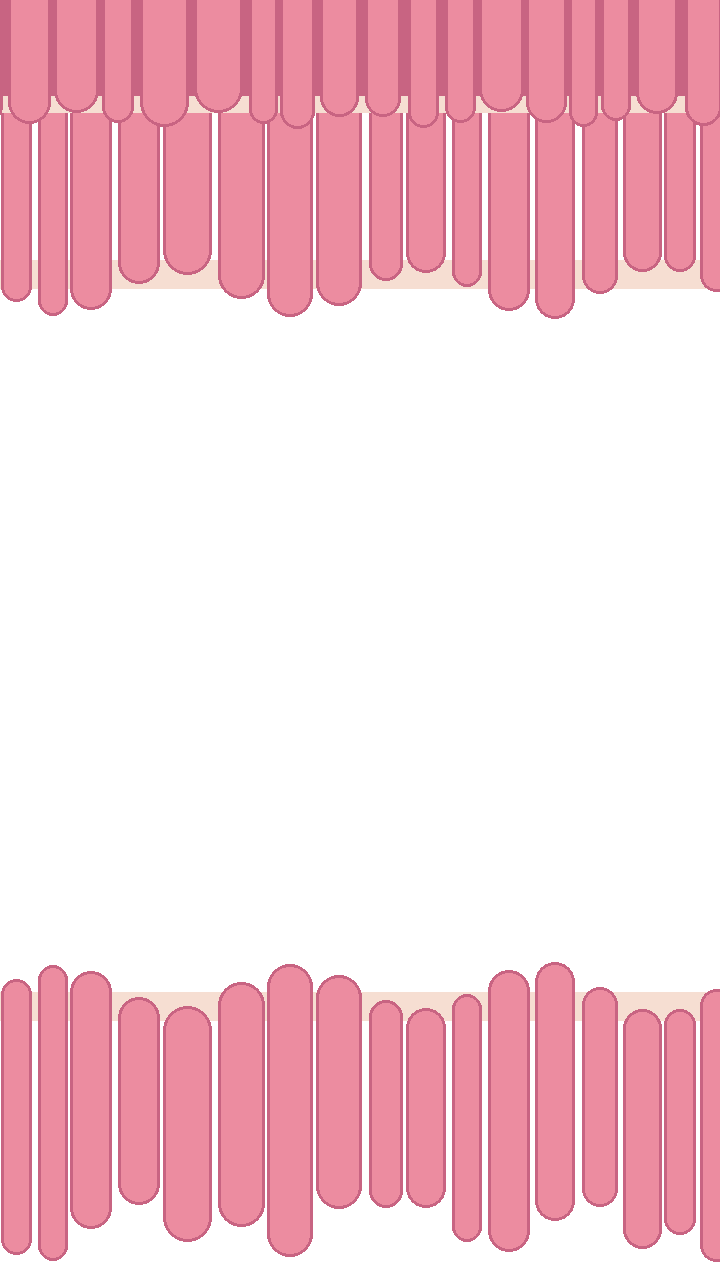
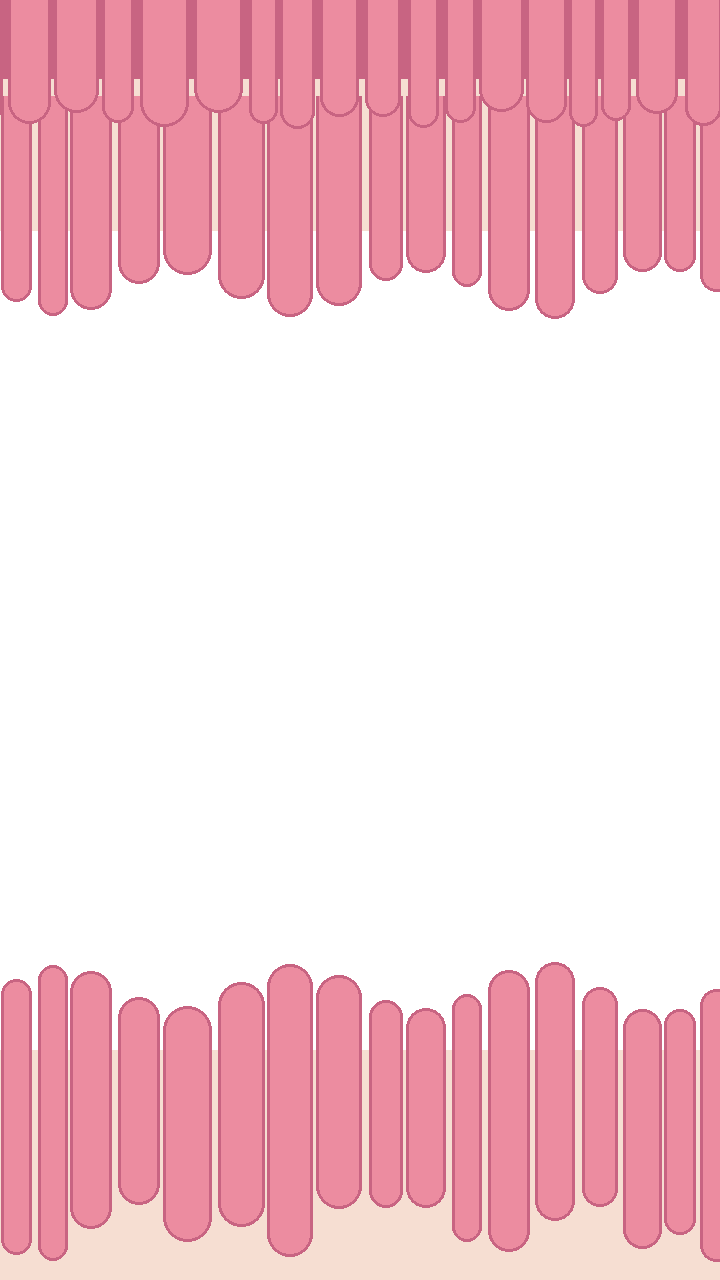
feat(art): cream backdrop behind the villi; every tip extends past its bar
The fringes' 28 px cream band is now a cream mucosa backdrop from each screen
edge to BAR_FRAC (85 %) of the shortest fringe tip's reach (top 0–230, bottom
1050–1280), drawn first so the strips and the fringes sit over it; the level
colour shows from the backdrop's edge to the lumen, and no tip lines up with
the bar. The strips' cream lines follow the same rule (the ceiling strip's at
79–95 under tips at 112–128; the ground's mirrored, its top 33 px transparent
over the backdrop). VERSION 0.5.12 so the browser refetches the art.

diff --git a/src/logic.js b/src/logic.js
@@ -4,7 +4,7 @@
 
 import { isLocale, DEFAULT_LOCALE } from './i18n.js';
 
-export const VERSION = '0.5.11'; // bumped when art under an existing name changes (Boot's ?v= cache-bust)
+export const VERSION = '0.5.12'; // bumped when art under an existing name changes (Boot's ?v= cache-bust)
 
 /** Player-facing stamp on the About overlay: the time of the last push (written by `npm run push`). */
 export const LAST_UPDATED = '6 Nov 2026, 16:07';

diff --git a/tools/make_placeholders.py b/tools/make_placeholders.py
@@ -96,25 +96,29 @@ def villi_band(d, x0, x1, y_base, height, up, rng, min_frac=0.55, wave=None, til
 FRONT_WAVE = (8, 5, math.pi / 2)  # shallow undulation of the strips' finger tips (±8 px, 5 waves per tile)
 BACK_WAVE = (24, 3, 0.0)  # deeper undulation of the fringes' tips (±24 px, 3 waves per tile)
 TIP_ZONE = 16  # px of the strips' lumen-side edge left for the undulating tips (2 × the front amplitude)
+BAR_FRAC = 0.85  # the cream bars end at this share of the shortest tip's reach from the screen edge, so every tip extends past them
 
 
 def ceiling_strip(d, w, strip_h=128, cream_h=16):
-    """The ground strip's vertical mirror, baked into the overlay's top edge: a dark band
-    (strip_h − TIP_ZONE tall), a cream line along its lower edge, and fingers growing up from
-    it whose tips undulate shallowly in the TIP_ZONE below the band (same seed as the ground
-    so the two rows read as one gut wall). Background only: pipes and the poop draw over it,
-    so the ceiling kill line and the gap margin stay as they are."""
-    band = strip_h - TIP_ZONE
-    d.rectangle((0, 0, w, band), fill=VILLI_DARK)
-    d.rectangle((0, band - cream_h, w, band), fill=CREAM)
-    # Tips in [band, strip_h]; far ends run past the top edge (≥ 144 px from the base): no rounded tops on screen.
-    villi_band(d, -40, w + 40, band - 20 + TIP_ZONE / 2, 240, up=True, rng=random.Random(11), min_frac=0.6, wave=FRONT_WAVE, tile_w=w)
+    """The ground strip's vertical mirror, baked into the overlay's top edge: a dark band, a
+    cream line along its lower edge ending at BAR_FRAC of the shortest tip (so every tip
+    extends past it), and fingers growing up from the TIP_ZONE whose tips undulate shallowly
+    (same seed as the ground so the two rows read as one gut wall). Background only: pipes
+    and the poop draw over it, so the ceiling kill line and the gap margin stay as they are."""
+    tips = strip_h - TIP_ZONE  # the shortest front tip's reach from the top edge
+    bar = round(BAR_FRAC * tips)
+    d.rectangle((0, 0, w, bar - cream_h), fill=VILLI_DARK)
+    d.rectangle((0, bar - cream_h, w, bar), fill=CREAM)
+    # Tips in [tips, strip_h]; far ends run past the top edge (≥ 144 px from the base): no rounded tops on screen.
+    villi_band(d, -40, w + 40, tips - 20 + TIP_ZONE / 2, 240, up=True, rng=random.Random(11), min_frac=0.6, wave=FRONT_WAVE, tile_w=w)
 
 
 def villi(path, w=720, h=1280):
-    """Transparent overlay: cream bands + villi fringes, plus the ceiling strip (the
-    ground's mirror) along the top edge. The level colour shows through everywhere
-    else (the game draws a solid rectangle under it)."""
+    """Transparent overlay: a cream mucosa backdrop from each screen edge to BAR_FRAC of the
+    shortest fringe tip (behind everything: the strips and the fringes draw over it), the
+    villi fringes, and the ceiling strip (the ground's mirror) along the top edge. The level
+    colour shows through from the backdrop's edge to the lumen (the game draws a solid
+    rectangle under the overlay)."""
     img = Image.new("RGBA", (w, h), (0, 0, 0, 0))
     d = ImageDraw.Draw(img)
     # Fringes ~260px (~20% each end) so the open lumen stays majority clear
@@ -122,8 +126,12 @@ def villi(path, w=720, h=1280):
     cream_h = 28
     top_base = fringe + cream_h // 2
     bot_base = h - fringe - cream_h // 2
-    d.rectangle((0, top_base - cream_h // 2, w, top_base + cream_h // 2), fill=CREAM)
-    d.rectangle((0, bot_base - cream_h // 2, w, bot_base + cream_h // 2), fill=CREAM)
+    # The backdrop ends short of the shortest tip (base + 20 − amplitude), so no tip lines up with its edge.
+    amp = BACK_WAVE[0]
+    top_bar = round(BAR_FRAC * (top_base + 20 - amp))
+    bot_bar = h - round(BAR_FRAC * (h - (bot_base - 20 + amp)))
+    d.rectangle((0, 0, w, top_bar), fill=CREAM)
+    d.rectangle((0, bot_bar, w, h), fill=CREAM)
     # villi fringes (drawn wider than the image so the horizontal tile edge matches); every finger
     # is ≥ 195 px so its rounded far end sits behind the ceiling strip / the ground strip, and the
     # tips undulate ±24 px around the cream band (BACK_WAVE).
@@ -135,12 +143,15 @@ def villi(path, w=720, h=1280):
 
 
 def ground(path, w=720, h=128):
-    """The floor strip: transparent TIP_ZONE at the top for the undulating finger tips, then the
-    cream line and the dark band; fingers run past the bottom edge (no rounded bottoms on screen)."""
+    """The floor strip, the ceiling strip's mirror: transparent at the top (the overlay's cream
+    backdrop shows through) down to the cream line, which ends BAR_FRAC of the shortest tip
+    from the bottom edge so every tip extends past it; then the dark band. The fingers' tips
+    undulate in the top TIP_ZONE; their far ends run past the bottom edge."""
     img = Image.new("RGBA", (w, h), (0, 0, 0, 0))
     d = ImageDraw.Draw(img)
-    d.rectangle((0, TIP_ZONE, w, h), fill=VILLI_DARK)
-    d.rectangle((0, TIP_ZONE, w, TIP_ZONE + 16), fill=CREAM)
+    bar = round(BAR_FRAC * (h - TIP_ZONE))  # from the bottom edge
+    d.rectangle((0, h - bar, w, h - bar + 16), fill=CREAM)
+    d.rectangle((0, h - bar + 16, w, h), fill=VILLI_DARK)
     villi_band(d, -40, w + 40, TIP_ZONE + 20 - TIP_ZONE / 2, 240, up=False, rng=random.Random(11), min_frac=0.6, wave=FRONT_WAVE, tile_w=w)
     img.save(path)
 

diff --git a/assets/README.md b/assets/README.md
@@ -26,7 +26,7 @@ The player and items are Michael's drawings. Put a new source PNG in `assets/src
 | `mystery-icon.png` | 384x384 | Mystery box icon (game-over summary and How to play) | Static three-quarter view; never spawned, so no hitbox. Same crop rules as the items. Source: `assets/src/MysteryBox_Icon.png`. |
 | `pipe.png` | 128x1280 | One intestinal-fold pipe | Cap at the **top**; the game flips it vertically for the bottom pipe. Height must be **at least the playfield height** (1280) so a flipped top pipe always reaches the ceiling when the gap sits low. |
 | `villi.png` | 720x1280 | Villi overlay over the level colour | Exact playfield size, **transparent** except the cream bands and villi fringes top and bottom and the ceiling strip (top 128 px: dark band, cream line, a front row of fingers, mirroring `ground.png`; background only, pipes and the poop draw over it). Scrolls slowly (parallax 0.25); must tile **horizontally** (left edge continues into right edge). See "Background layers" below. |
-| `ground.png` | 720x128 | Scrolling floor strip | Must tile horizontally. Drawn at the bottom of the screen on top of every background layer. The top 16 px are transparent except the fingers' undulating tips (`TIP_ZONE`); the cream line and the dark band start below them; the fingers run past the bottom edge. |
+| `ground.png` | 720x128 | Scrolling floor strip | Must tile horizontally. Drawn at the bottom of the screen on top of every background layer. Transparent from the top down to its cream line (the overlay's cream backdrop shows through; the fingers' undulating tips live in the top `TIP_ZONE`); the cream line ends `BAR_FRAC` of the shortest tip from the bottom edge so every tip extends past it; then the dark band; the fingers run past the bottom edge. |
 | `icon-192.png` | 192x192 | Home-screen icon (Android / manifest) and the tab favicon | From `assets/src/FlappyPoopAppArt.png` on its own tan: the drawing is scaled to the central 80 % (`ICON_SAFE_FRAC`) so a circular or squircle mask never clips the fart cloud. Referenced by `manifest.webmanifest` (`purpose: any maskable`) and `index.html`. |
 | `icon-512.png` | 512x512 | Home-screen icon (large) | Same cut as `icon-192.png`. |
 | `apple-touch-icon.png` | 180x180 | iPhone home-screen icon | The same art full bleed (iOS only rounds the corners, no mask). Linked from `index.html`. |
@@ -46,7 +46,7 @@ Audio files live in `assets/sfx/`. Every file there must be named in `CREDITS.md
 
 The background is a **solid colour per level** (`LEVEL_COLORS` in `src/config.js`, cycling, softened by `levels.whiteBlend`, crossfaded between levels at the break) with one or more **transparent PNG overlay layers** on top. Each layer is a `tileSprite` listed in `BACKGROUND.layers` (`key`, `parallax`) and scrolls at its own fraction of the pipe speed (villi 0.25). Pipes, items, the poop and the ground draw above all layers; the ground strip (bottom 128 px) hides that part of every layer.
 
-- `villi.png`: 720×1280, PNG with alpha, exactly the portrait playfield (it is scaled to the screen height, never tiled vertically). On a wider desktop field the same 720 px copy repeats sideways (tile scale `FIELD.minWidth / width`), as does `ground.png`, so a seam at the wrap would show there first. Transparent wherever the level colour should show; opaque only where the villi / mucosa are and in the ceiling strip along the top edge (the ground's mirror, so both ends show a back fringe and a front row; it is background, so the ceiling kill line and the gap margin are unchanged). Every finger's rounded far end is off the image edge (the strips' front rows) or behind a strip (the fringes), so the walls read as villi running off-screen, not teeth; `villi_band(min_frac)` enforces the minimum length. The lumen-side tips undulate along x on a sine with a whole number of periods per 720 px tile (`BACK_WAVE` ±24 px on the fringes, `FRONT_WAVE` ±8 px on the strips, inside their 16 px `TIP_ZONE`), plus a little per-finger jitter. Must tile horizontally: the right edge continues into the left (the placeholder draws 40 px past each side and wraps). A 2× version (1440×2560) is fine; keep each side ≤ 4096 px (phone WebGL limit); the scene scales by `GAME_WIDTH / frame.width`. Keep the fringes clear of the middle ~50 % of the height where the gaps sit.
+- `villi.png`: 720×1280, PNG with alpha, exactly the portrait playfield (it is scaled to the screen height, never tiled vertically). On a wider desktop field the same 720 px copy repeats sideways (tile scale `FIELD.minWidth / width`), as does `ground.png`, so a seam at the wrap would show there first. Transparent wherever the level colour should show; opaque in a cream mucosa backdrop from each screen edge to `BAR_FRAC` (85 %) of the shortest fringe tip's reach (behind the strips and the fringes, so the level colour shows only from the backdrop's edge to the lumen and no tip lines up with the bar), where the villi are, and in the ceiling strip along the top edge (the ground's mirror, so both ends show a back fringe and a front row; its cream line ends at `BAR_FRAC` of the shortest front tip too; it is background, so the ceiling kill line and the gap margin are unchanged). Every finger's rounded far end is off the image edge (the strips' front rows) or behind a strip (the fringes), so the walls read as villi running off-screen, not teeth; `villi_band(min_frac)` enforces the minimum length. The lumen-side tips undulate along x on a sine with a whole number of periods per 720 px tile (`BACK_WAVE` ±24 px on the fringes, `FRONT_WAVE` ±8 px on the strips, inside their 16 px `TIP_ZONE`), plus a little per-finger jitter. Must tile horizontally: the right edge continues into the left (the placeholder draws 40 px past each side and wraps). A 2× version (1440×2560) is fine; keep each side ≤ 4096 px (phone WebGL limit); the scene scales by `GAME_WIDTH / frame.width`. Keep the fringes clear of the middle ~50 % of the height where the gaps sit.
 - The same villi show over every level colour (Set2: tan, teal, periwinkle, lime, yellow, light blue). Keep villi away from those hues; `tests/levels.test.js` rejects a level colour that comes within reach of the villi pink or the cream bands, so a redrawn villi colour means re-checking that test's constants.
 - Adding a layer: a PNG with the same rules, a row in `BACKGROUND.layers`, a `load.image` in `src/scenes/Boot.js`, and a row in the table above. Nothing in `Play.js` changes.
 - The finish line is a generated texture (`src/ui/finish.js`). A drawn one later: `finish.png`, 64×1280, alpha, scrolls with the pipes.

diff --git a/AGENTS.md b/AGENTS.md
@@ -637,7 +637,9 @@ tools/
   make_placeholders.py      Regenerates pipe / villi / ground only (icons moved to
                             process_art.py); villi.png carries a baked ceiling
                             strip (ceiling_strip: the ground's mirror along the
-                            top edge, background only); fingers run off the
+                            top edge, background only); a cream backdrop from each
+                            screen edge to BAR_FRAC of the shortest fringe tip
+                            sits behind everything; fingers run off the
                             edges / behind the strips (villi_band min_frac) and
                             their lumen-side tips undulate (BACK_WAVE on the
                             fringes, FRONT_WAVE in the strips' TIP_ZONE). Must
